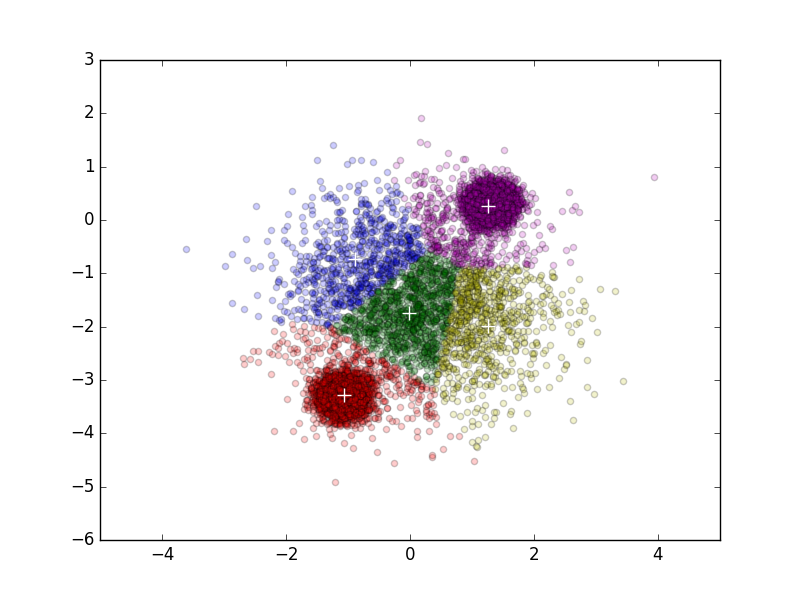
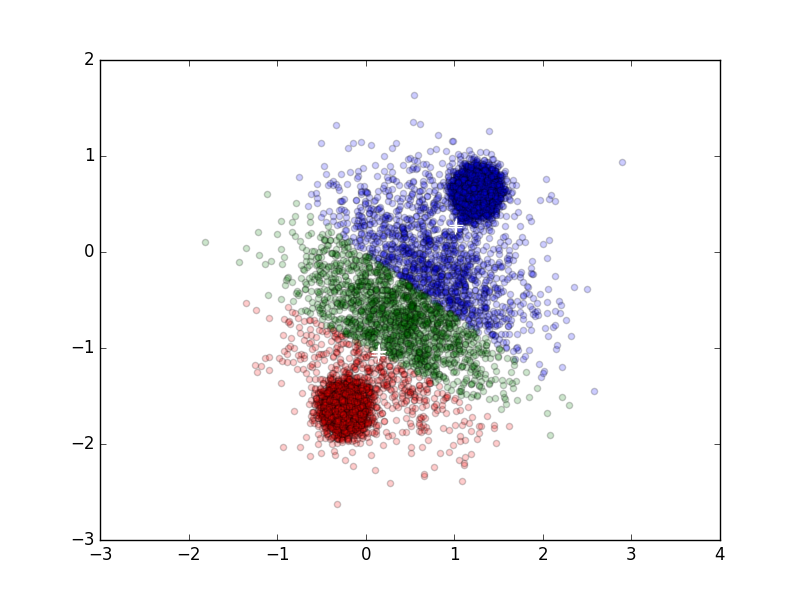
Revise the MoG function and it can now successfully separate the data into K clusters]

diff --git a/ML_HW3/MoG.py b/ML_HW3/MoG.py
@@ -8,29 +8,34 @@ class MoG:
     def __init__(self, file_name):
         self.file_name = file_name
 
+    def cal_min_idx(self, X, Y, D):
+        X_data = tf.constant(X, dtype=tf.float32)
+        Y_final = tf.constant(Y, dtype=tf.float32)
+        ED_min = ed.Euclid_Distance(X_data, Y_final, D)
+        ed_min = ED_min.cal_Euclid_dis()
+        min_idx = tf.argmin(ed_min, 1)
+        return min_idx
+
     def cal_loss(self, K, D, B):
         X_data = np.load('data2D.npy')
         # Normailize the training data        
         mean = X_data.mean()
         dev = X_data.std()
-        X_tmp = (X_data - mean)/ dev 
+        X_norm = (X_data - mean)/ dev 
 
+        # Initialize centoroid, pi_k and sigma
         X = tf.placeholder(tf.float32, [None, D], name='dataset')
-        Y = tf.Variable(tf.random_normal(shape = (K,D), stddev = 1.0, dtype=tf.float32))
+        Y = tf.Variable(tf.random_normal(shape = (K,D), stddev=1.0, dtype=tf.float32))
+        pi_k = tf.Variable(tf.random_normal(shape=(1,K), dtype=tf.float32))
+        sigma = tf.Variable(tf.random_normal(shape=(1,K), dtype=tf.float32))
 
-
-        # not sure how to initialie pi and sigma??????
-        # Carry me God Yang!!!!!!!!!!!!!!!!!!
-        log_pi = logsoftmax(tf.constant([[0.2, 0.3, 0.4]], dtype=tf.float32))
-        # log_pi = logsoftmax(tf.random_normal(shape = (1,K), mean = 0.2, stddev = 0.01, dtype=tf.float32))
-        # exp_sigma = tf.exp(tf.random_normal(shape = (1,K), mean = 0.3, stddev = 0.01, dtype=tf.float32))
-        exp_sigma = tf.exp(tf.constant([[0.3,0.4,0.3]],dtype=tf.float32))
+        log_pi = logsoftmax(pi_k)
+        exp_sigma = tf.exp(sigma)
 
         ED = ed.Euclid_Distance(X, Y, D)
         dist = ED.cal_Euclid_dis()
-        cost = reduce_logsumexp(-0.5 * tf.div(dist, exp_sigma) + log_pi - tf.log(tf.sqrt(2 * pi * exp_sigma)))
-        loss = -tf.reduce_sum(cost)
-
+        cost = reduce_logsumexp(tf.div(-dist, 2*exp_sigma) + log_pi - tf.log(tf.sqrt(2 * pi * exp_sigma)))
+        loss = -tf.reduce_mean(cost)
 
         learning_rate =  0.01
         epsilon = 1e-5
@@ -48,20 +53,28 @@ class MoG:
         res_loss = []
         record, loss_prv = 0, 0
         for epoch in range(training_epochs):
-            loss_np, _ , mu= sess.run([loss, train_op, Y], feed_dict={X: X_tmp})
+            _, loss_np, mu_norm, pi_np, sigma_square = sess.run([train_op, loss, Y, pi_k, exp_sigma], feed_dict={X: X_norm})
             res_loss.append(loss_np)
-            if record == 200:
+            if record == 100:
                 break
             elif loss_prv == loss_np:
                 record += 1
             else:
                 loss_prv = loss_np
-            if(epoch % 20 == 0):
+  
+            if(epoch % 100 == 0):
                 print 'epoch', epoch
-                print loss_np
-                print mu
+                print 'loss', loss_np
 
-        return res_loss
+        print 'loss:', loss_np
+        print 'centoroid:', mu_norm        
+        pi_np = tf.exp(pi_np) / tf.reduce_sum(tf.exp(pi_np))
+        print 'pi_k:', pi_np.eval()
+        print 'sigma_square:', sigma_square
+
+        min_idx = self.cal_min_idx(X_norm, mu_norm, D).eval()
+
+        return res_loss, X_data,mu_norm*dev+mean, min_idx
 
 K = 3
 B = 10000
@@ -69,6 +82,7 @@ D = 2
 pi = np.pi
 
 mog = MoG("data2D.npy")
-res_loss = mog.cal_loss(K, D, B)
+res_loss, X_plot, mu_plot, min_idx = mog.cal_loss(K, D, B)
 
 plot.plot_loss(res_loss)
+plot.plot_cluster(min_idx, X_plot, mu_plot, K)

diff --git a/ML_HW3/plot_generator.py b/ML_HW3/plot_generator.py
@@ -14,7 +14,7 @@ def plot_cluster(min_idx, X_data, mu, K):
         col = colors[i]
         data = X_data[np.where(min_idx == i), :]
         data = data[0, :]
-        scatter(data[:, 0], data[:, 1], c = col, alpha = 0.2)
+        scatter(data[:, 0], data[:, 1], c = col, alpha = 0.3)
         
     for i in range(K):
         scatter(mu[i, 0], mu[i, 1], c = 'white', alpha = 1, marker = '+', s = 100)

diff --git a/ML_HW3/Euclid_Distance.py b/ML_HW3/Euclid_Distance.py
@@ -50,4 +50,3 @@ with tf.Session():
     print ED.cal_Euclid_dis().eval()
 '''
 
-
